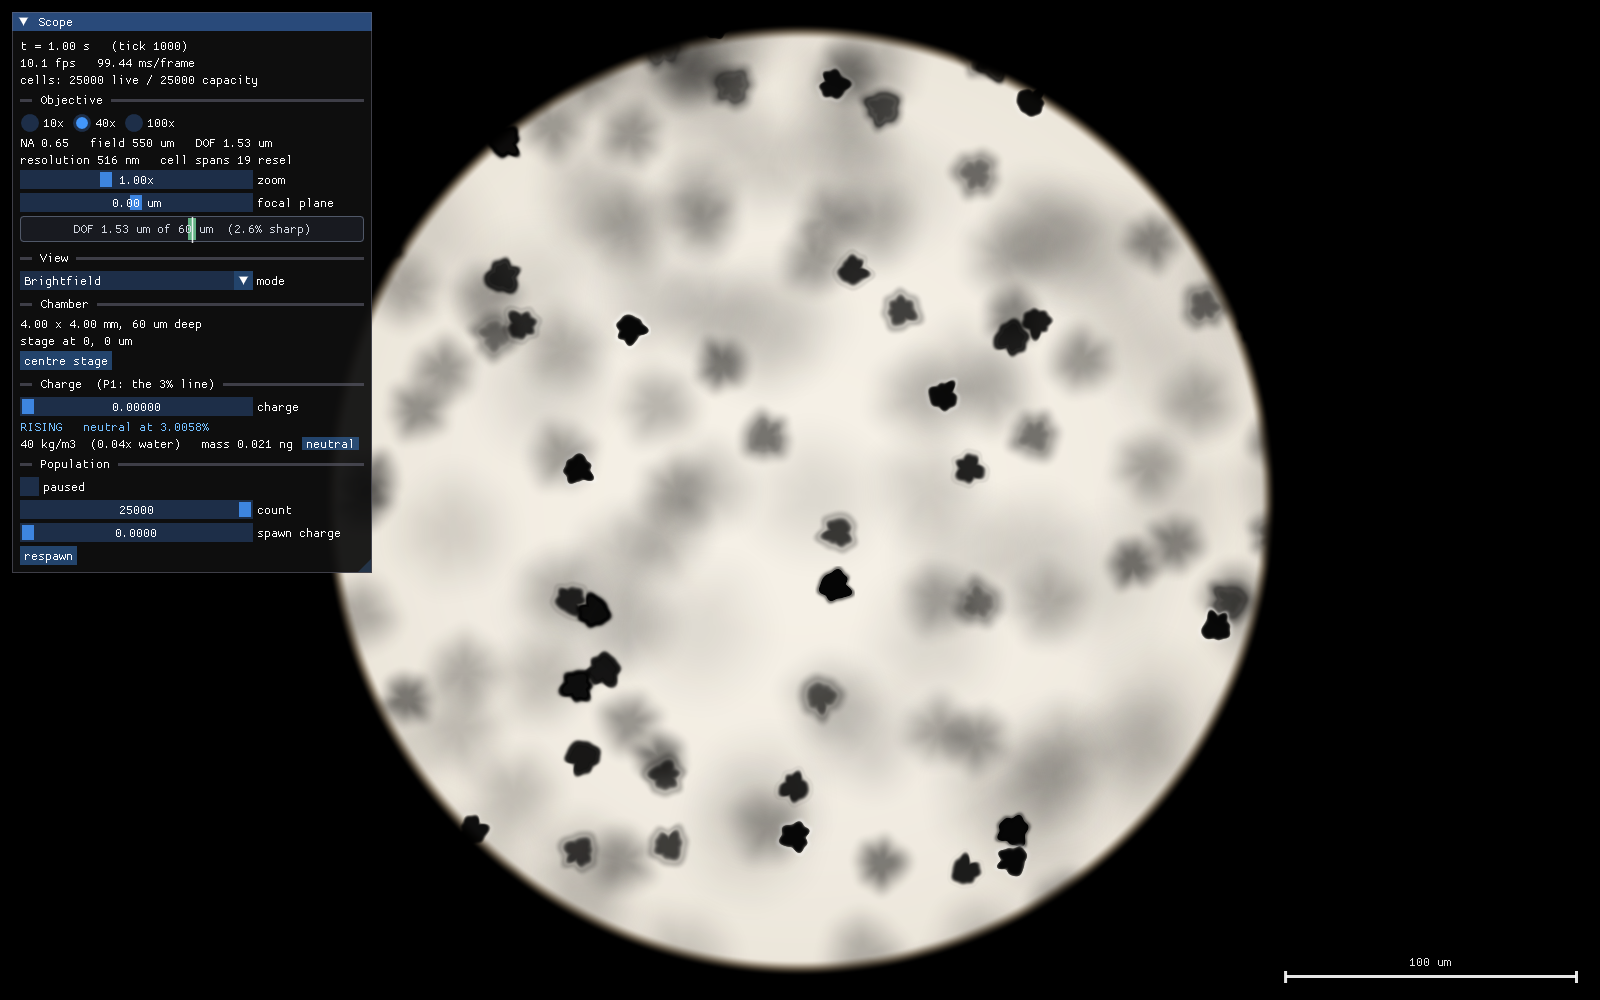
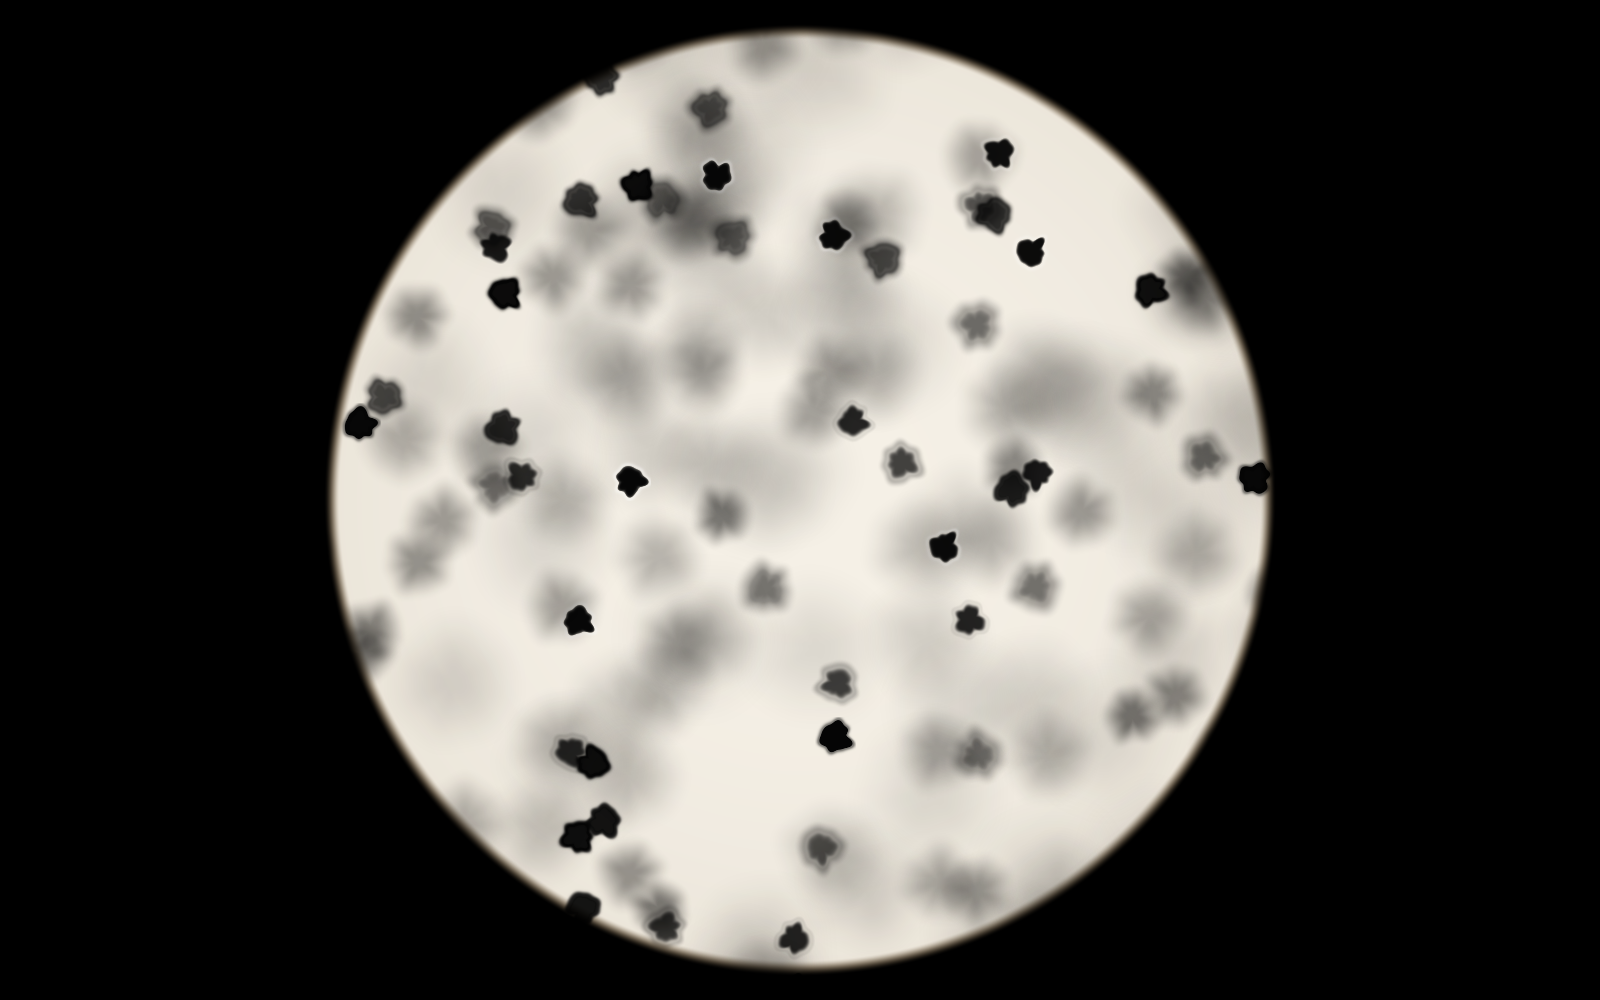
docs: refresh screenshots for the current app, add predation + instrument
The repo's images predated M8b-M12: refresh the brightfield hero (irregular
silhouettes + energy-conserving defocus) and add the two the repo lacked --
the tolerance-coloured Taumoeba culture (the 82.5 evolution arc, visible) and a
full-instrument shot (cell inspector's buoyancy line, the LIVE parameter sliders,
the objective checks, the timeline scrubber, the colourblind toggle). README
prose updated: predation + content are done, all eight scenarios are live.

diff --git a/README.md b/README.md
@@ -62,6 +62,24 @@ Albedo is exactly zero at every wavelength ("super cross-sectionality"). In a li
 
 ---
 
+## Predation, and the Taumoeba-82.5 arc ✅ *live*
+
+![A Taumoeba swarm consuming an Astrophage culture](docs/images/taumoeba-culture.png)
+
+The **Taumoeba** — the amoeba that eats Astrophage — crawls, engulfs, digests, and **evolves**. Under a slowly rising nitrogen ramp, a population under genuine directional selection breeds the **Taumoeba-82.5** strain (N₂ tolerance ≥ 0.825) all by itself, deterministically, never by script; a constant-nitrogen control plateaus at 0.17, which is what proves the rise is selection and not drift. The predators are coloured by their tolerance — pale teal for the intolerant, gold-green for the evolved — so the arc is visible on screen: the swarm warms toward gold as selection does its work.
+
+*Above: thousands of Taumoeba (bred from twenty) consuming a 24,000-cell culture, mid-evolution at mean tolerance 0.46. The black voids are where the culture has been eaten.*
+
+---
+
+## The instrument
+
+![The full instrument — inspector, parameter table, objective panel, timeline scrubber](docs/images/ui-overview.png)
+
+Eight self-verifying scenarios play in the app and grade themselves live. Click a cell for its state and the P1 buoyancy line; the parameter table shows every constant with its provenance badge and canon lock, plus a live slider for the curated set the simulation actually reads; the objective panel checks the scenario's acceptance conditions each frame; and the timeline records a rolling ring of full-state snapshots you can rewind through. Everything here is procedural — there are no asset files.
+
+---
+
 ## It behaves like a microscope
 
 ![Focus sweep at 100× oil](docs/images/m3-focus-sweep.png)
@@ -194,7 +212,7 @@ Without `-App`, the core library and the full test suite build with **no network
 
 **M7 was the line where all five signature phenomena came live.** Everything after it adds behaviour and content on top of a physics core that is now complete.
 
-Scenarios planned for M11 include *First Light* (heat a slide of inert powder until it ignites), *Komorov* (Dimitri's 1 kW laser, reproduced on a microbalance), *Shadow Garden* (absolute self-shading), and *Spin Drive Face* — the one place the ship intrudes, because a spin drive is a cell-scale machine and the microscope is the right instrument to look at it.
+The eight scenarios are live and self-verifying: *First Light* (heat a slide of inert powder until it ignites), *Three-Percent Line* (buoyancy sorting), *Komorov* (Dimitri's 1 kW laser on a microbalance), *Shadow Garden* (absolute self-shading), *Bloom* (population dynamics), *Taumoeba* (predation and the 82.5 arc), *Spin-Drive Face* — the one place the ship intrudes, because a spin drive is a cell-scale machine and the microscope is the right instrument to look at it — and a free-play *Sandbox*. Each loads, drives itself, and passes its acceptance block headlessly (`headless --scenario ID --assert`).
 
 ## Credit
 
